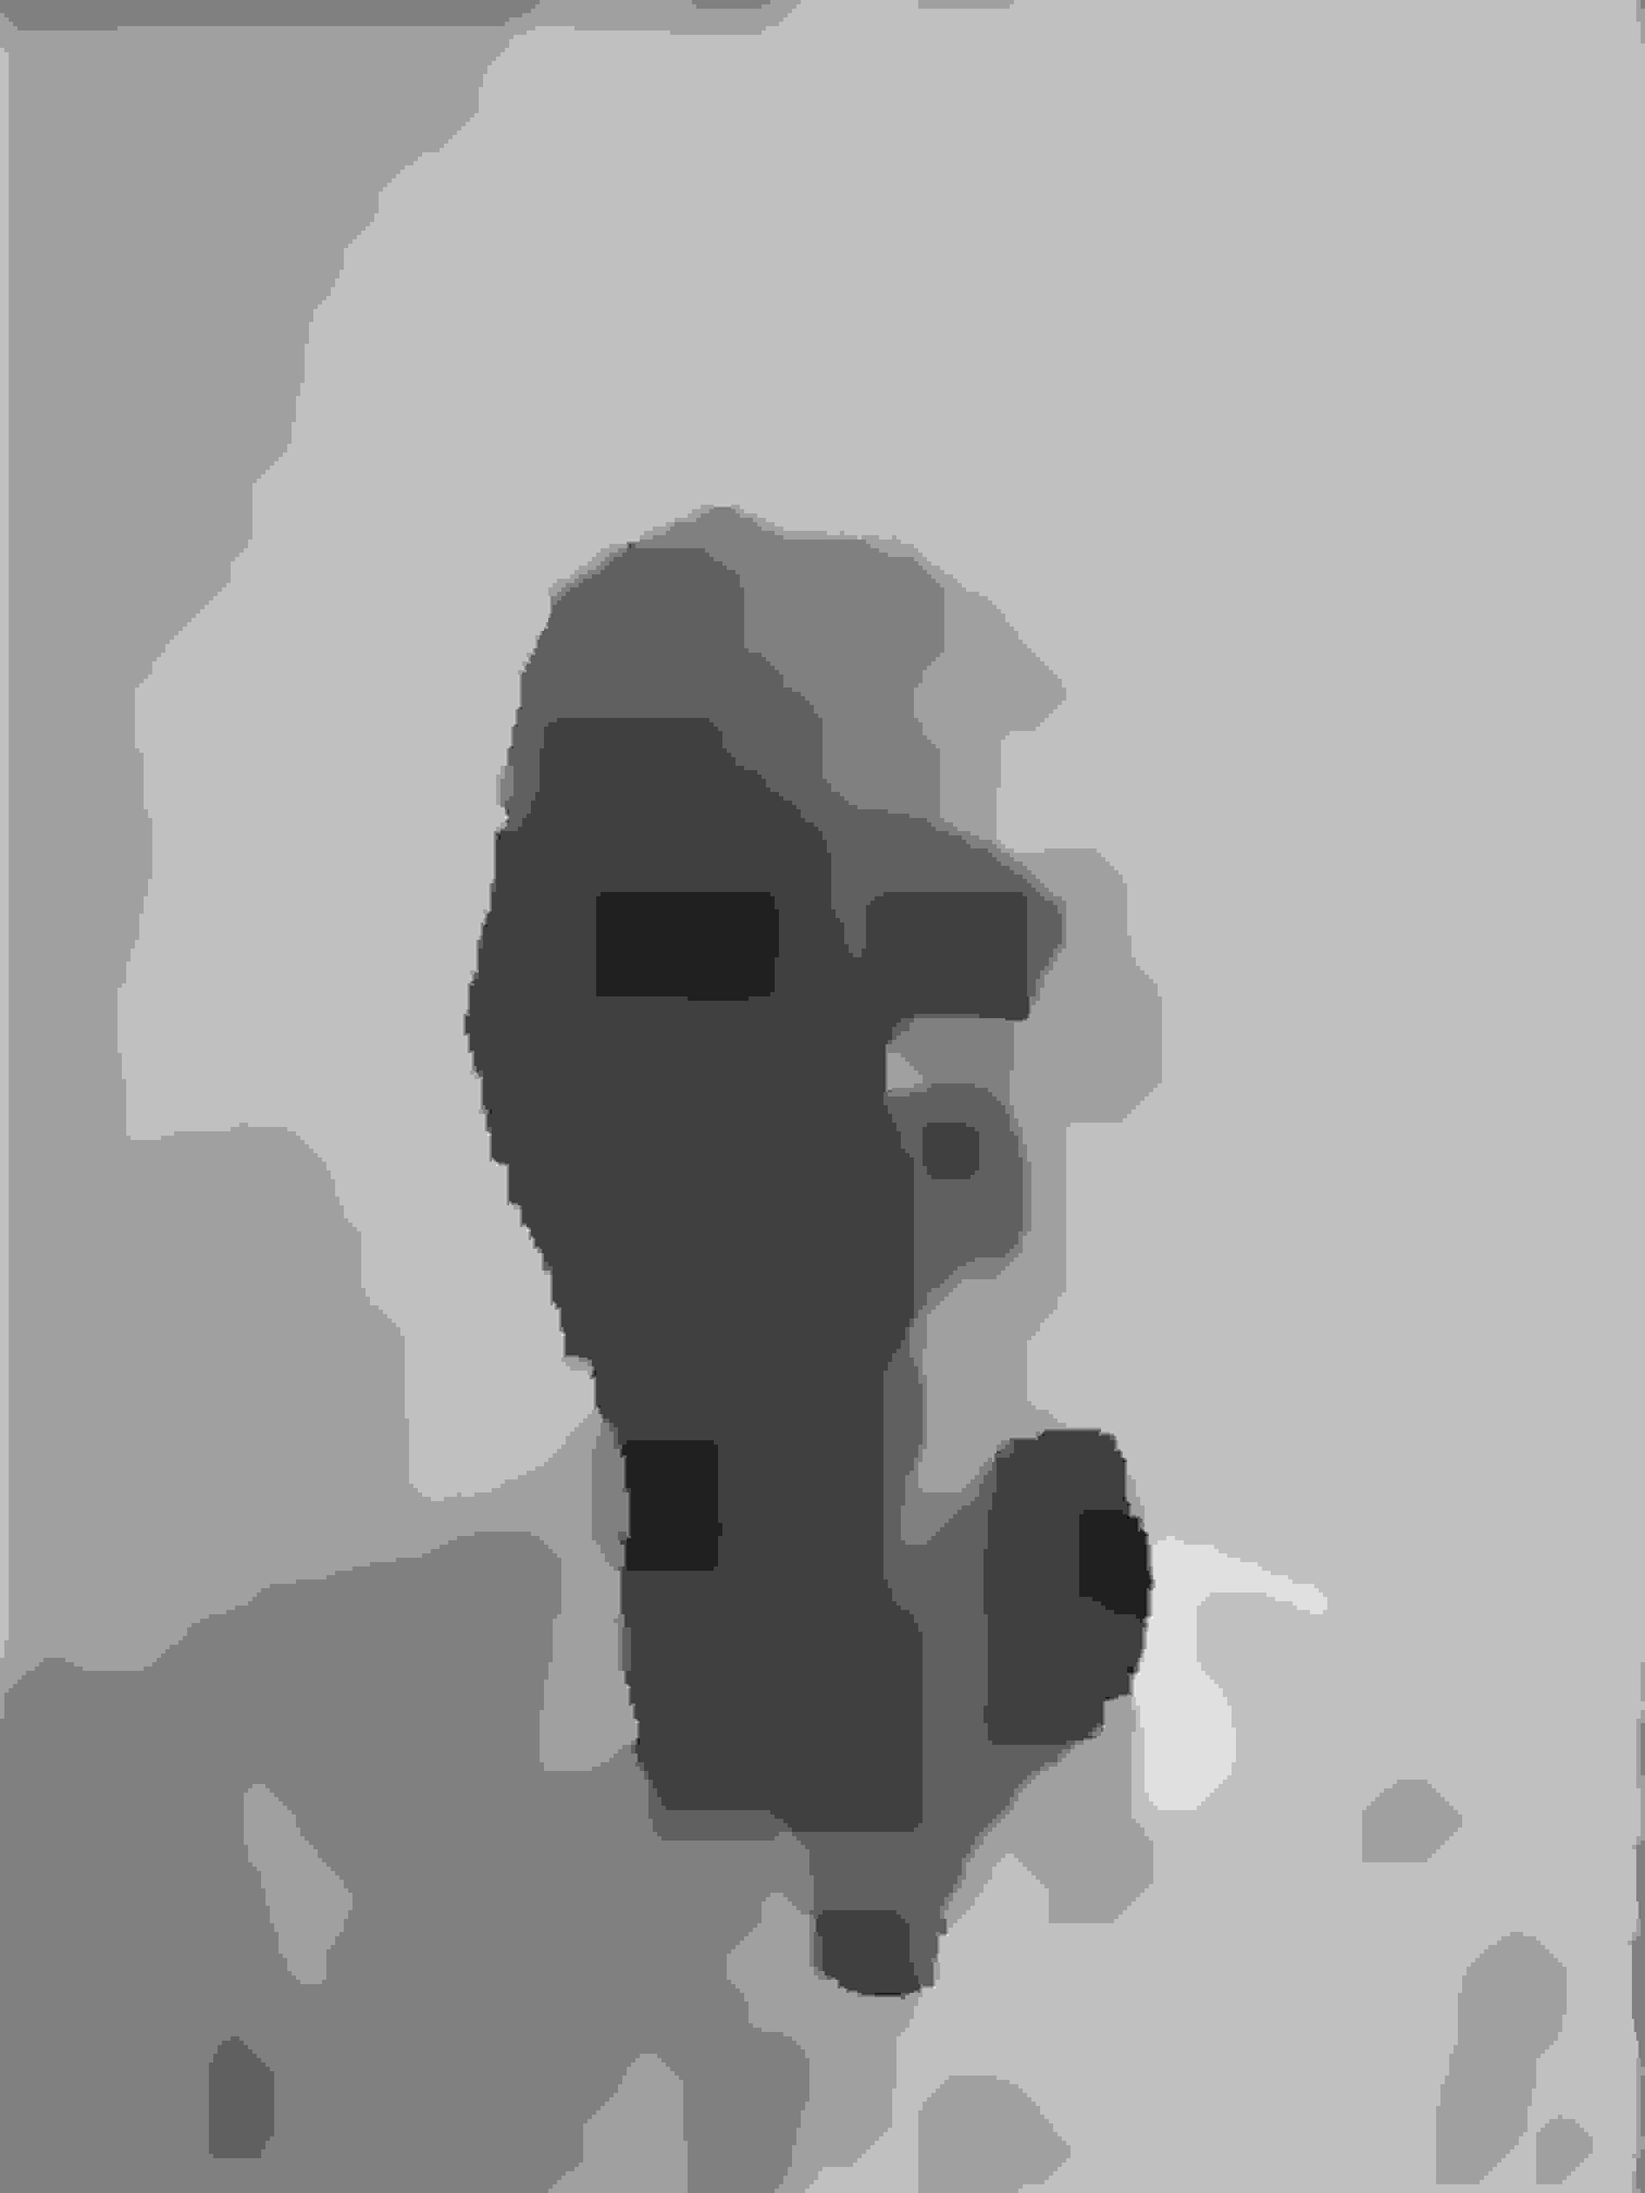
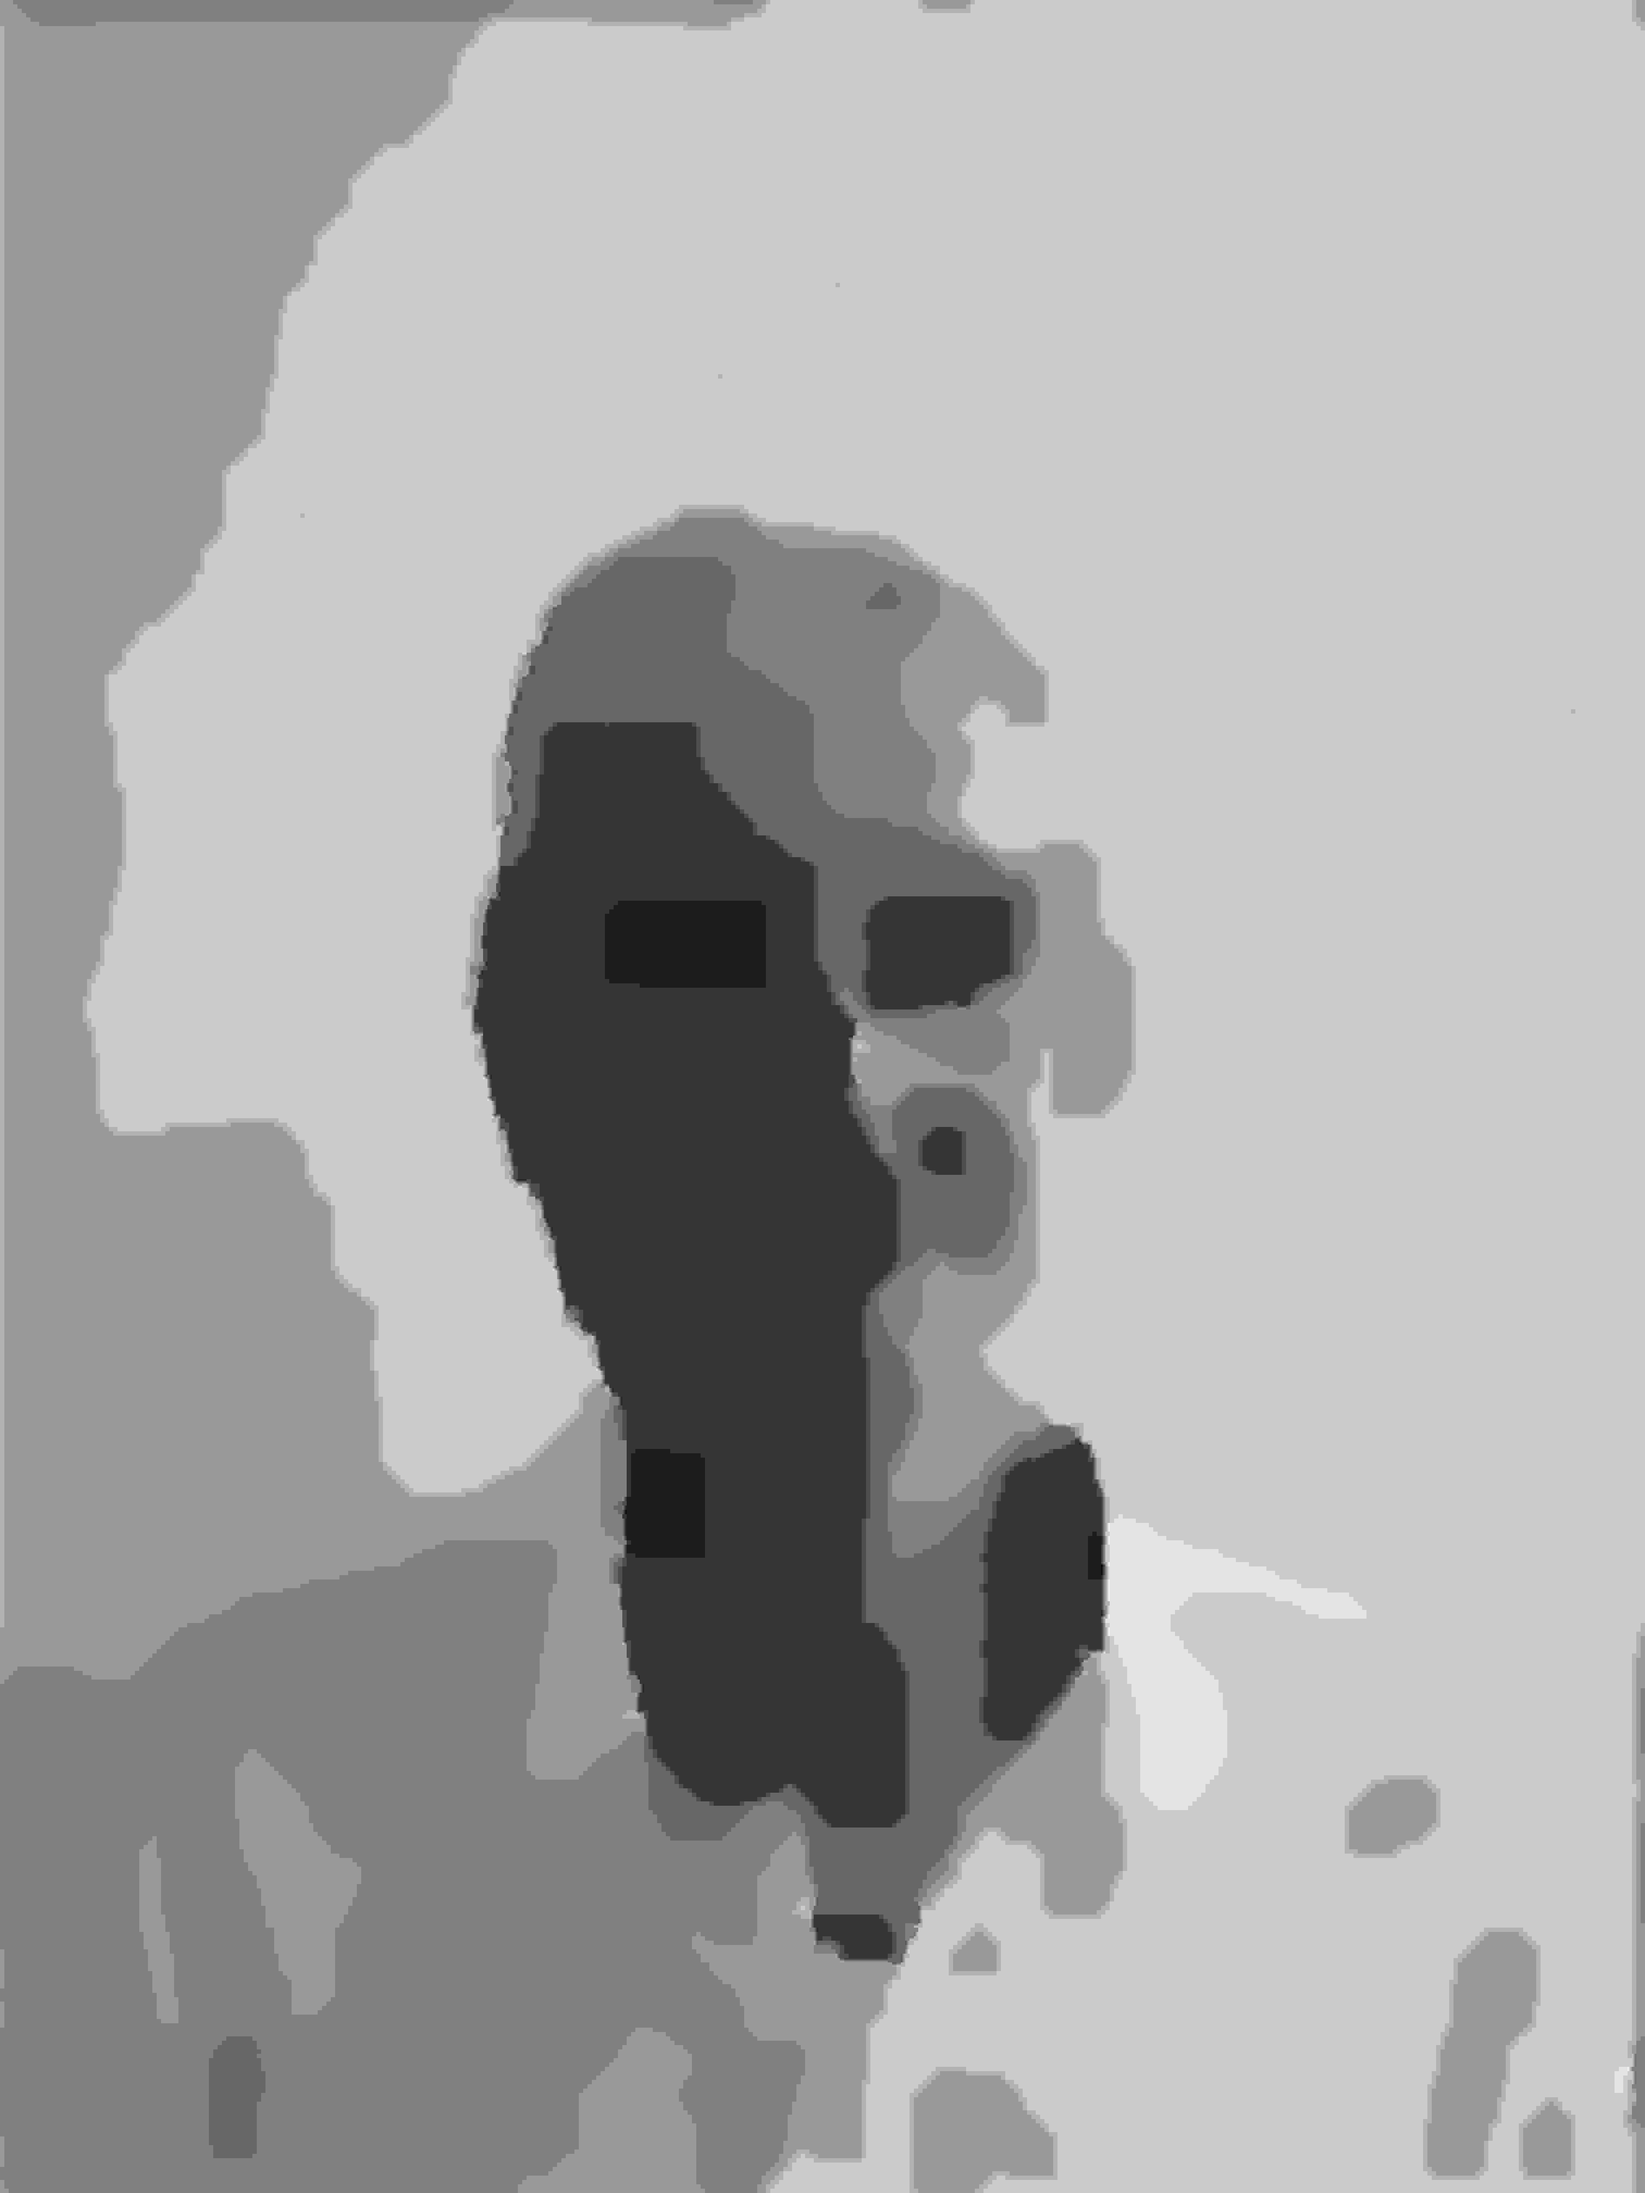
update changes

diff --git a/gallery.js b/gallery.js
@@ -1,5 +1,5 @@
 const archive = [
-    { src: "imagenes/0001.jpg", id: "FAC-0001", compressions: 3090 },
+    { src: "imagenes/0001.jpg", id: "FAC-0001", compressions: 3090, },
     { src: "imagenes/0002.jpg", id: "FAC-0002", compressions: 1974 },
     { src: "imagenes/0003.jpg", id: "FAC-0003", compressions: 2900 },
     { src: "imagenes/0004.jpg", id: "FAC-0004", compressions: 3102 },
@@ -22,8 +22,12 @@ const archive = [
     { src: "imagenes/0021.jpg", id: "FAC-0021", compressions: 2001 },
     { src: "imagenes/0022.jpg", id: "FAC-0022", compressions: 3021 },
     { src: "imagenes/0023.jpg", id: "FAC-0023", compressions: 2001 },
-    { src: "imagenes/0024.jpg", id: "FAC-0024", compressions: 1010 },
-    { src: "imagenes/0025.jpg", id: "FAC-0025", compressions: 4002 },];
+    { src: "imagenes/0025.jpg", id: "FAC-0025", compressions: 1010 },
+    { src: "imagenes/0026.jpg", id: "FAC-0026", compressions: 2090 },
+    { src: "imagenes/0027.jpg", id: "FAC-0027", compressions: 0090 },
+    { src: "imagenes/0028.jpg", id: "FAC-0028", compressions: 1310 },
+    { src: "imagenes/0029.jpg", id: "FAC-0029", compressions: 1410 },
+    { src: "imagenes/0030.jpg", id: "FAC-0030", compressions: 1002 },];
 
 const gallery = document.getElementById("gallery");
 const lightbox = document.getElementById("lightbox");
